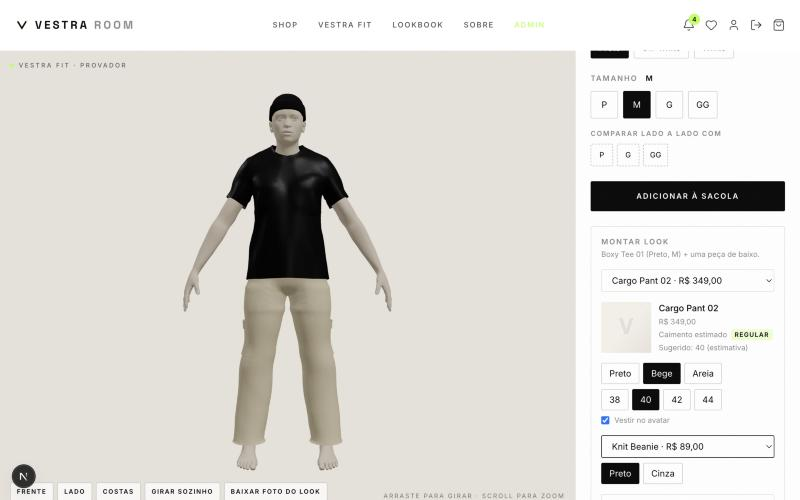
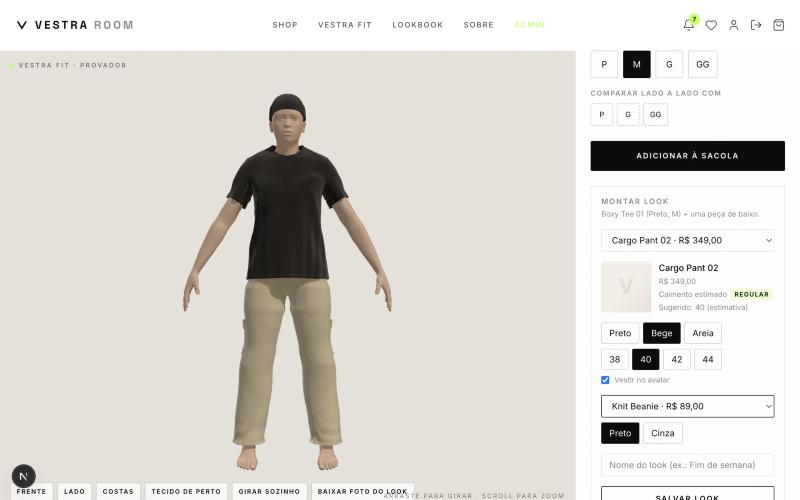
docs(apresentação): prints do provador refeitos e passo do tecido no roteiro

diff --git a/docs/ROTEIRO-APRESENTACAO-26-10.md b/docs/ROTEIRO-APRESENTACAO-26-10.md
@@ -1,8 +1,8 @@
 # Entrega final (26/10) — roteiro da apresentação
 
-> Roteiro para mostrar a VESTRA ROOM ao professor em cerca de **12 minutos**,
+> Roteiro para mostrar a VESTRA ROOM ao professor em cerca de **13 minutos**,
 > com foco no que a Sprint 5 trouxe: provador com peça de cima e de baixo,
-> looks com foto, trocas e devoluções. Decisões e resultados dos testes em
+> roupa com cara de tecido, looks com foto, trocas e devoluções. Decisões e resultados dos testes em
 > [`SPRINT5-DECISOES.md`](SPRINT5-DECISOES.md); o roteiro da Sprint 4
 > (frete, cartão, boleto, reembolso) continua em
 > [`SPRINT4-ROTEIRO-APRESENTACAO.md`](SPRINT4-ROTEIRO-APRESENTACAO.md).
@@ -36,7 +36,7 @@ arquivo).
 
 ---
 
-## Roteiro (≈ 12 min)
+## Roteiro (≈ 13 min)
 
 ### 1. Catálogo com busca (1 min)
 
@@ -68,6 +68,22 @@ arquivo).
 - **Falar:** os moldes foram feitos no Blender a partir do próprio avatar, por
   script (`scripts/molde/`). A peça de baixo acompanha a pele do cliente, a
   folga vem da diferença de quadril e o comprimento vem da perna.
+
+### 2b. Tecido de perto: antes × depois (1 min)
+
+Ainda no provador da Boxy Tee 01 com a Cargo Pant 02 (ou a Wide Denim):
+
+- Clicar **"Tecido de perto"**: a câmera chega na gola e mostra a malha e o
+  pesponto. Clicar de novo (**"Ver a barra"**): desce até a barra. **"Voltar"**
+  volta para o corpo inteiro.
+- Mostrar no slide ou no celular os prints de
+  [`apresentacao/tecido/`](apresentacao/tecido/README.md): a mesma roupa antes
+  (preto de plástico, "massinha") e depois (trama, barra, pesponto, dobras).
+- **Falar:** cada peça tem um tipo de tecido (malha, sarja, jeans, cetim,
+  tricô). A trama é gerada pelo próprio código e a barra, a costura e as
+  dobras são calculadas na placa de vídeo: nenhuma imagem extra para baixar. Em celular fraco o provador
+  entra sozinho no **modo leve** (sem dobras e sem sombras) para não travar.
+- O 3D da página do produto usa o mesmo tecido.
 
 ### 3. Corpo diferente (1 min)
 
@@ -129,7 +145,8 @@ Usar um pedido **já entregue** do cliente.
 
 | Pergunta | Resposta curta |
 |---|---|
-| A roupa é simulada como tecido? | Não. É um encaixe geométrico em cima do corpo do cliente, que roda no navegador sem travar. |
+| A roupa é simulada como tecido? | O caimento não: é um encaixe geométrico em cima do corpo do cliente, que roda no navegador sem travar. A aparência sim: cada peça tem material de tecido (trama, barra, pesponto e dobras). |
+| E num celular fraco? | Entra sozinho no modo leve (sem dobras, sombras e resolução dupla). Para comparar: `?leve=1` força o leve e `?leve=0` o completo. |
 | De onde vêm as medidas das peças? | Da tabela de medidas de cada produto (cadastrada no banco). |
 | Por que "estimativa"? | O avatar é paramétrico (medidas digitadas, não escaneamento). |
 | E as senhas e chaves? | Ficam fora do Git, em `.env`. As chaves do Stripe são de modo teste. |
@@ -143,4 +160,6 @@ Usar um pedido **já entregue** do cliente.
 
 - [x] Prints de cada passo: [`apresentacao/`](apresentacao/README.md)
   (13 prints, com a tabela de qual passo cada um mostra).
+- [x] Antes × depois do tecido: [`apresentacao/tecido/`](apresentacao/tecido/README.md)
+  (7 prints).
 - [ ] Vídeo curto (~3 min) do provador e da compra.

diff --git a/docs/apresentacao/README.md b/docs/apresentacao/README.md
@@ -3,7 +3,8 @@
 Um print por passo do [roteiro de 26/10](../ROTEIRO-APRESENTACAO-26-10.md),
 para usar se o 3D ou a internet falharem ao vivo. Tirados em 20/10/2026 no
 `npm run dev`, com a conta de admin de teste (por isso aparece "Admin" no
-topo da loja).
+topo da loja). Os do provador (02 a 05 e 13) foram refeitos em 21/10/2026,
+já com o tecido novo e o botão "Tecido de perto".
 
 | Passo do roteiro | Arquivo | O que mostra |
 |---|---|---|
@@ -19,7 +20,8 @@ topo da loja).
 | 7. Admin | `10-admin-pedido-logistica.jpg` | Pedido: linha do status e "Iniciar preparação" |
 | 8. Troca/devolução | `11-admin-devolucao.jpg` | Devolução concluída: histórico, estoque e reembolso |
 | 9. Relatórios | `12-admin-relatorios.jpg` | Vendas dos últimos 30 dias, com CSV |
-| Extra | `13-provador-celular.jpg` | Provador no celular (375 px) |
+| Extra | `13-provador-celular.jpg` | Provador no celular (375 px): Boxy Tee 01 + Cargo Pant 02 preta |
+| 2b. Tecido | [`tecido/`](tecido/README.md) | Antes × depois do tecido (7 prints) |
 
 O pedido `#PXIIOS28` dos prints 07–10 era de teste e foi cancelado depois
 (o estoque voltou).
